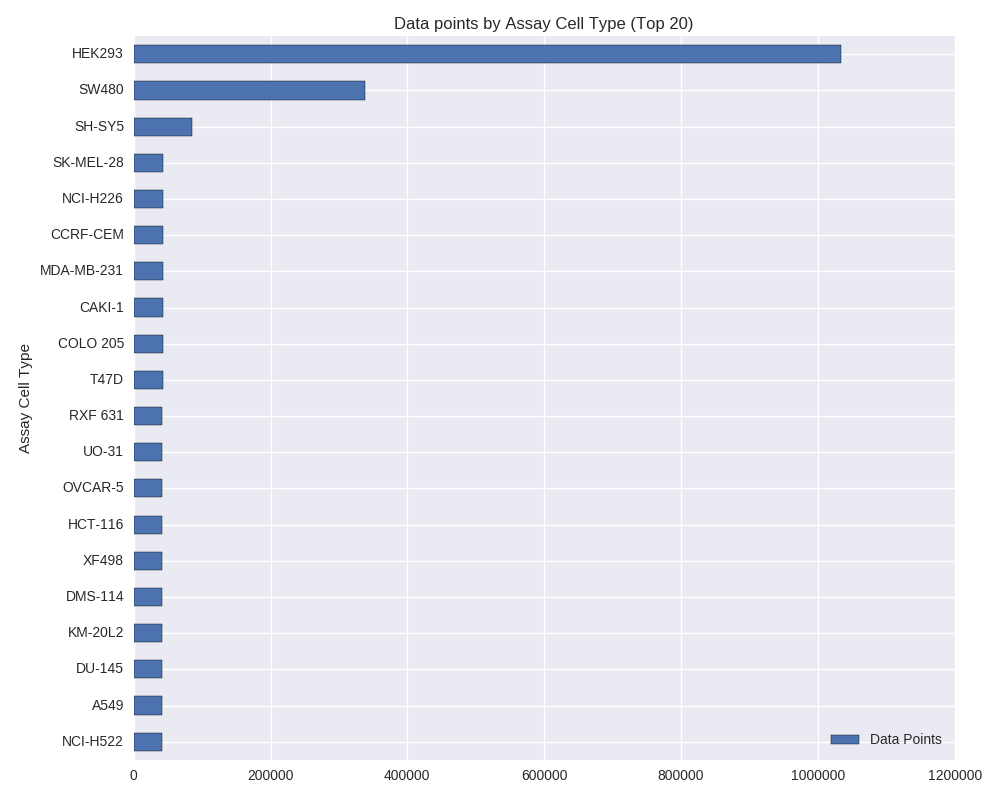
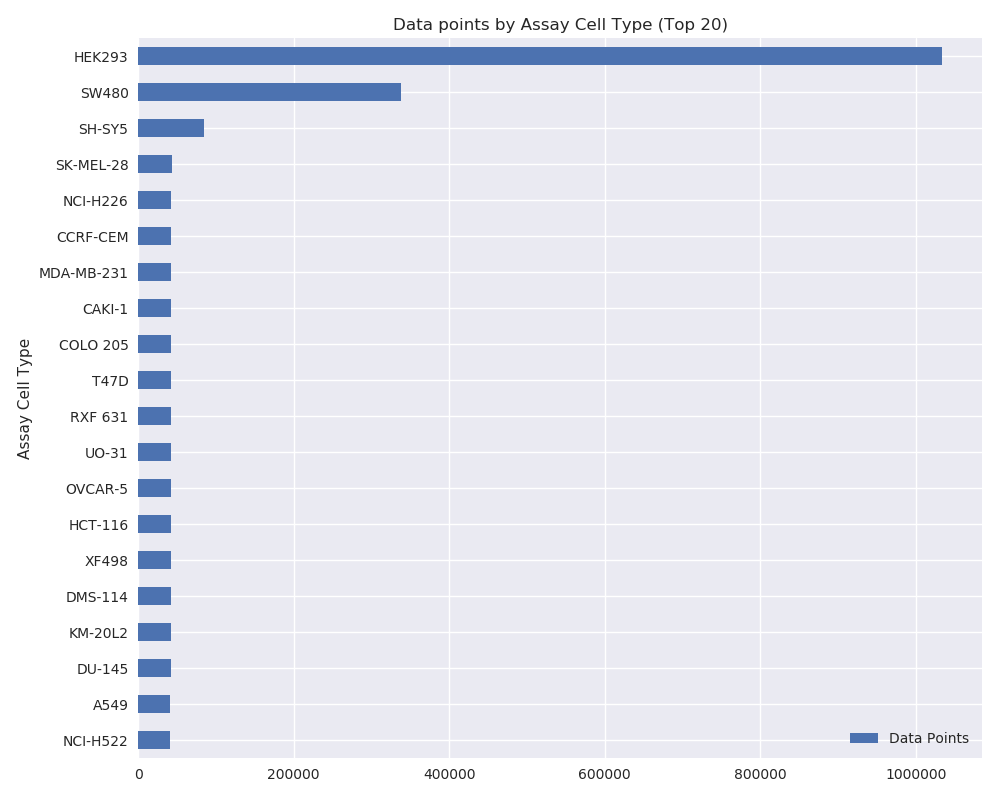
update figures

diff --git a/assay.py b/assay.py
@@ -9,6 +9,8 @@ import re
 import os
 import sys
 
+sns.set()
+
 COLUMNS = ['PUBCHEM_AID', 'RESULT_PANEL_ID', 'PUBCHEM_RESULT_TAG', 'PUBCHEM_SID', 'PUBCHEM_CID',\
         'PUBCHEM_ACTIVITY_OUTCOME', 'PUBCHEM_ACTIVITY_SCORE']
 EXTRAS = ['PUBCHEM_ACTIVITY_URL', 'PUBCHEM_ASSAYDATA_COMMENT']
@@ -19,8 +21,10 @@ filename2aid = lambda x: int(os.path.split(x)[-1].replace('.csv.gz', ''))
 def download(outdir='data/assay'):
     annotation = 'http://ftp.ncbi.nlm.nih.gov/pubchem/Bioassay/Extras/Aid2Annotation.gz'
     annotation = pd.read_csv(annotation, sep='\t', compression='gzip')
-    annotation = pd.pivot_table(annotation, index='AID', columns='Title', values='Annotation', aggfunc=lambda x: ', '.join(x))
+    print(annotation.shape, annotation['AID'].unique())
+    annotation = pd.pivot_table(annotation, index='AID', columns='Title', values='Annotation', aggfunc=lambda x: ', '.join(str(y) for y in sorted(set(x))))
     annotation = annotation[annotation.notnull().sum().sort_values(ascending=False).index]
+    print(annotation)
 
     depositor = 'http://ftp.ncbi.nlm.nih.gov/pubchem/Bioassay/Extras/Aid2DepositorName.gz'
     depositor = pd.read_csv(depositor, sep='\t', compression='gzip')
@@ -189,6 +193,7 @@ def summary():
         df.iloc[-top:].plot(kind='barh', x=category, y='Data Points', figsize=(10,8), 
                 fontsize=10, title='Data points by %s (Top %d)' % (category, top))
         plt.legend(loc='lower right', fontsize=10)
+        plt.grid(True)
         plt.tight_layout()
         plt.savefig('figure/%s.png' % category)
         print(df)
